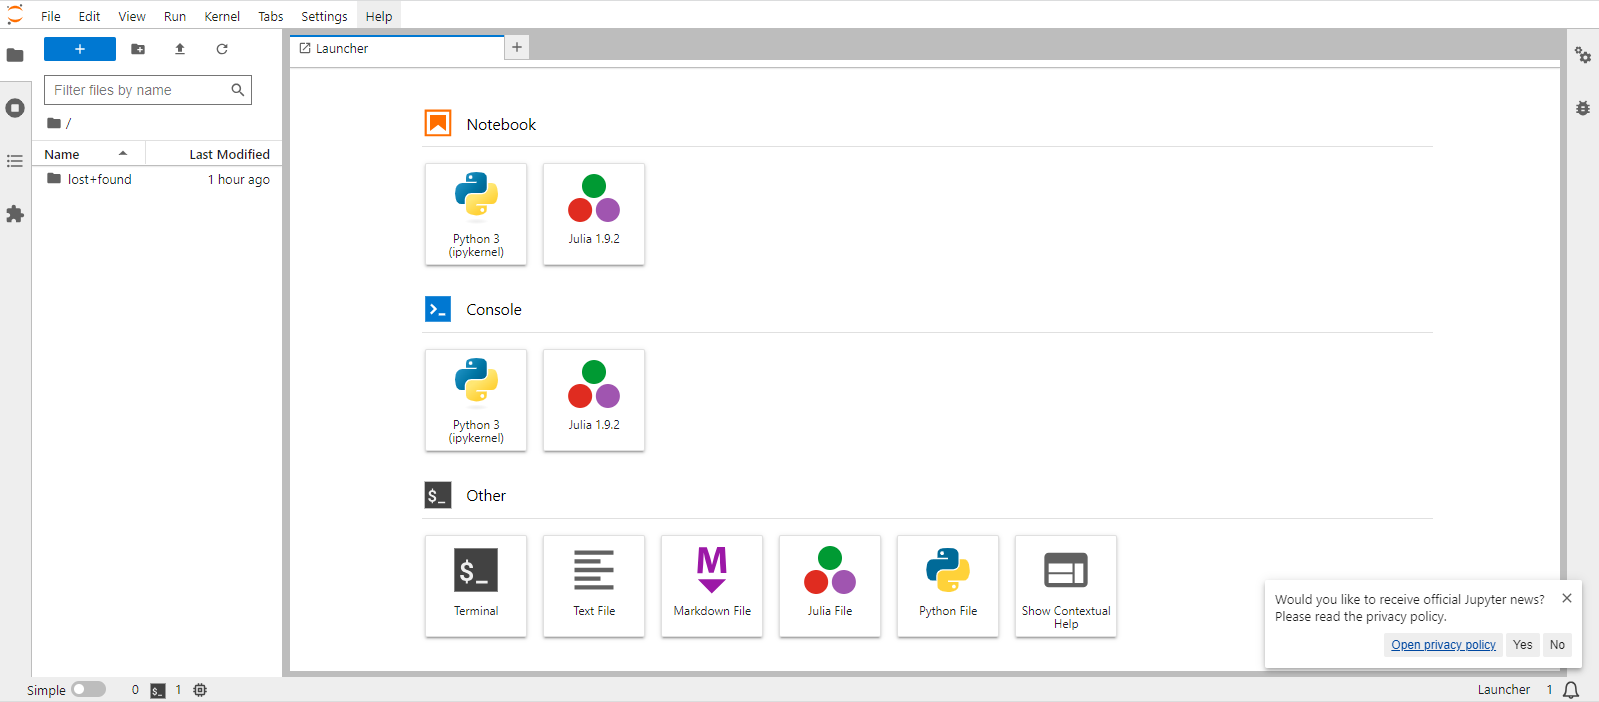
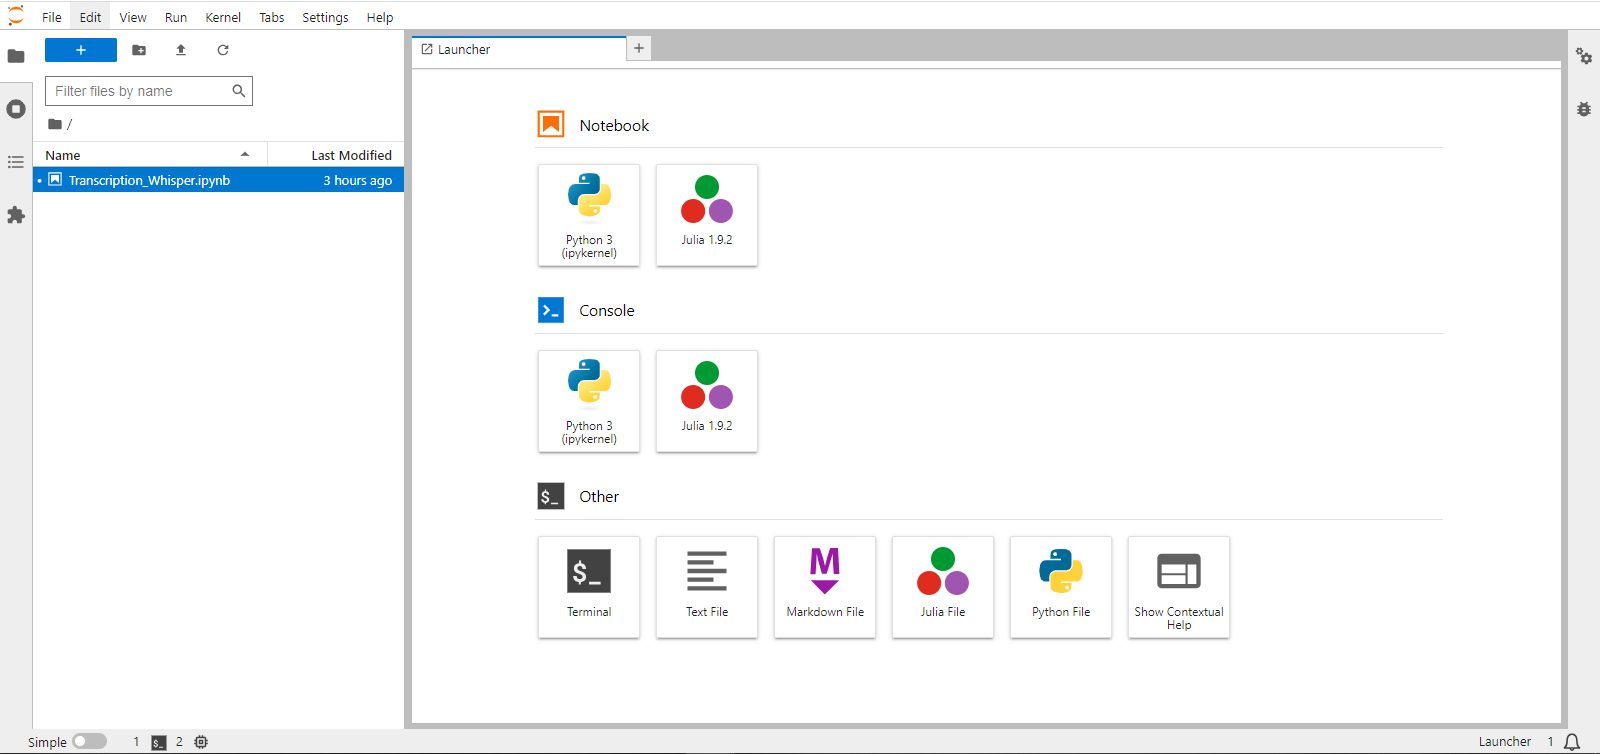
maj README en lien avec Transcription_Whisper.ipynb

Changed region(s): [[0.0, 0.0, 1.0, 1.0], [0.9806, 0.1197, 1.0, 0.1795]]

diff --git a/README.md b/README.md
@@ -4,25 +4,27 @@
 
 Ce tutoriel cherche à proposer une **solution simple et rapide aux personnes souhaitant retranscrire des enregistrements audio grâce au module [Whisper](https://github.com/openai/whisper) de [OpenAI](https://openai.com/) qui ne nécessite ni l'installation de logiciel, ni de disposer d'un ordinateur puissant, ni une bonne connaissance de Python et Bash**. Il ne présente pas toutes les potentialités de Whisper. Les informations complètes sur toutes ces fonctionnalités sont disponibles sur le dépôt [Github d'OpenAi](https://github.com/openai/whisper/blob/main/README.md). Par ailleurs, **la retranscription automatisée d'entretiens sociologiques avec WhisperOpenAI soulève un certain nombre de questions très bien évoquées par Yacine Ichtour dans [ce tutoriel](https://www.css.cnrs.fr/whisper-pour-retranscrire-des-entretiens/) dont je recommande vivement la lecture.**
 
-L'utilisation de Whisper en local pour la transcription de fichiers audio aussi longs que des entretiens sociologiques nécessite de disposer d'un ordinateur puissant (c'est-à-dire avec un CPU rapide voir un GPU, ce dont la plus part des étudiant.e.s ne disposent pas) pour pouvoir utiliser le modèle de transcription le plus précis (et donc le plus lent !) sans y passer deux jours. C'est pourquoi il peut être nécessaire d'utiliser un service de calcul en ligne dont l'accès n'est pas toujours libre comme dans le cas d'[HumaNum](https://documentation.huma-num.fr/calcul-scientifique/) ou qui posent de sérieux problèmes en matière de récolte des données personnelles comme dans le cas de [Google Colab](https://colab.research.google.com/drive/1srjHp_YjsXr92fNBsYIm3plG9sUoVKy7?usp=sharing). La solution proposée ici s'appuie sur l'application web [Onyxia](https://github.com/InseeFrLab/onyxia-web/blob/main/README.md) développé le Service Statistique Public qui associe plusieurs technologies open source pour fournir un environnement de travail aux statisticiens : le SSP Cloud.
+L'utilisation de Whisper en local pour la transcription de fichiers audio aussi longs que des entretiens sociologiques nécessite de disposer d'un ordinateur puissant (c'est-à-dire avec un CPU rapide voir un GPU, ce dont la plus part des étudiant.e.s ne disposent pas) pour pouvoir utiliser le modèle de transcription le plus précis (et donc le plus lent !) sans y passer deux jours. C'est pourquoi il peut être nécessaire d'utiliser un service de calcul en ligne dont l'accès n'est pas toujours libre comme dans le cas d'[HumaNum](https://documentation.huma-num.fr/calcul-scientifique/) ou qui posent de sérieux problèmes en matière de récolte des données personnelles comme dans le cas de [Google Colab](https://colab.research.google.com/drive/1srjHp_YjsXr92fNBsYIm3plG9sUoVKy7?usp=sharing). La solution proposée ici s'appuie sur l'application web [Onyxia](https://github.com/InseeFrLab/onyxia-web/blob/main/README.md) développé le Service Statistique Public qui associe plusieurs technologies open source pour fournir un environnement de travail aux statisticiens : le [SSP Cloud](https://github.com/InseeFrLab/onyxia-web/blob/main/README.md).
 
-## Le SSP Cloud, c'est quoi ? 
+## Le SSP Cloud, c'est quoi ?
 
 ### Une grosse puissance de calcul en accès (presque) libre
 
-Le datalab, service de calcul en ligne du [SSP Cloud](https://github.com/InseeFrLab/onyxia-web/blob/main/README.md), développé par l'INSEE et la Direction Interministérielle du Numérique (DINUM) qui permet l'émulation en ligne d'applications comme Rstudio, Jupyter et Vscode et met à disposition des ressources (CPU, GPU et RAM) permettant ainsi d'accélérer grandement la vitesse de calcul[^readme-1]. En d'autre termes, l'utilisation du datalab du SSP Cloud permet de retranscrire des entretiens rapidement et précisément tout en continuant d'utiliser son ordinateur normalement pendant que cette tache s'effectue (puisque les ressources locales ne sont pas utilisées). Ainsi, avec le modèle de transcription le plus lourd et précis, la durée de transcription est proche de celle de l'enregistrement (par exemple 2h d'entretien seront transcrites en 2h par Whisper), on a donc des performances similaires à celles observées avec Google Collab.
+[Le datalab](https://datalab.sspcloud.fr/), service de calcul en ligne du SSP Cloud, développé par l'INSEE et la Direction Interministérielle du Numérique (DINUM) qui permet l'émulation en ligne d'applications comme Rstudio, Jupyter et Vscode et met à disposition des ressources (CPU, GPU et RAM) permettant ainsi d'accélérer grandement la vitesse de calcul[^readme-1]. En d'autre termes, l'utilisation du datalab du SSP Cloud permet de retranscrire des entretiens rapidement et précisément tout en continuant d'utiliser son ordinateur normalement pendant que cette tache s'effectue (puisque les ressources locales ne sont pas utilisées). Ainsi, avec le modèle de transcription le plus lourd et précis, la durée de transcription est proche de celle de l'enregistrement (par exemple 2h d'entretien seront transcrites en 2h par Whisper), on a donc des performances similaires à celles observées avec Google Collab.
 
-[^readme-1]: L'émulation sur le datalab permet ainsi une utilisation de Rstudio qui ne nécessite pas d'installation de logiciels (ni R ni Rstudio), reste à jour, dont la puissance de calcul en général meilleure que celle des ordinateurs personnels. Elle permet aussi la pré-configuration et le partage de ces services, ce qui peut être particulièrement utile dans un cadre de travail collectif ou pour l'enseignement des méthodes quantitatives. A ce titre, l'utilisation des services du SSP Cloud pourrait intéresser bon nombre d'étudiant.e.s, d'enseigant.e.s et de chercheur.euse.s. Il est cependant conseillé de maîtriser les bases de l'utilisation de [Git](https://git-scm.com/).
+[^readme-1]: L'émulation sur le datalab permet ainsi une utilisation de Rstudio qui ne nécessite pas d'installation de logiciels (ni R ni Rstudio), reste à jour, dont la puissance de calcul en général meilleure que celle des ordinateurs personnels. Elle permet aussi la pré-configuration et le partage de ces services, ce qui peut être particulièrement utile dans un cadre de travail collectif ou pour l'enseignement des méthodes quantitatives. A ce titre, l'utilisation des services du SSP Cloud pourrait intéresser bon nombre d'étudiant.e.s, d'enseignant.e.s et de chercheur.euse.s. Il est cependant conseillé de maîtriser les bases de l'utilisation de [Git](https://git-scm.com/). Pour en savoir plus, [consulter la documentation](https://docs.sspcloud.fr/).
 
-L'utilisation du datalab du SSP Cloud est gratuite, cependant elle nécessite la création d'un compte. A l'origine destiné aux statisticiens des services de l'Etat, le SSP Cloud est cependant ouvert à la majorité des étudiant.e.s, enseignant.e.s et chercheur.euse.s via leur adresse mail institutionnelle[^readme-2].
+L'utilisation du datalab du SSP Cloud est gratuite mais elle nécessite la création d'un compte. A l'origine destiné aux statisticiens des services de l'Etat, le SSP Cloud est cependant ouvert à la majorité des étudiant.e.s, enseignant.e.s et chercheur.euse.s via leur adresse mail institutionnelle[^readme-2].
 
 [^readme-2]: liste des domaines autorisés : *insee.fr, gouv.fr, mnhn.fr, polytechnique.edu, ensae.fr, groupe-genes.fr, ensai.fr, sncf.fr, imf.org, veltys.com, unedic.fr, ined.fr, centralesupelec.fr, student-cs.fr, student.ecp.fr, supelec.fr, ign.fr, has-sante.fr, casd.eu, datastorm.fr, framatome.com, ars.sante.fr, ansm.sante.fr, cnaf.fr, ac-lille.fr, ac-amiens.fr, ac-normandie.fr, ac-reims.fr, ac-nancy-metz.fr, ac-strasbourg.fr, ac-creteil.fr, ac-paris.fr, nantesmetropole.fr, ac-versailles.fr, ac-rennes.fr, ac-nantes.fr, ac-orleans-tours.fr, ac-dijon.fr, ac-besancon.fr, ac-poitiers.fr, ac-limoges.fr, ac-clermont.fr, ac-lyon.fr, ac-grenoble.fr, ac-bordeaux.fr, ac-toulouse.fr, ac-montpellier.fr, ac-aix-marseille.fr, ac-nice.fr, ac-corse.fr, ac-martinique.fr, ac-guadeloupe.fr, ac-reunion.fr, ac-guyane.fr, ac-mayotte.fr, ac-wf.wf, monvr.pf, anfr.fr, ccomptes.fr, ac-noumea.nc, ac-spm.fr, inrae.fr, inria.fr, irsn.fr, ird.fr, arcep.fr, assemblee-nationale.fr, hceres.fr, ext.ec.europa.eu, health-data-hub.fr, datactivist.coop, inpi.fr, telecom-paris.fr, ineris.fr, cerema.fr, cnrs.fr, univ-rouen.fr, univ-paris1.fr, etu.univ-paris1.fr, edu.univ-paris1.fr, ens-paris-saclay.fr, ens.fr, ens-lyon.fr, cereq.fr, univ-eiffel.fr, chu-toulouse.fr, atih.sante.fr, thinkr.fr, inserm.fr, i-carre.net, statcan.gc.ca, istat.it, scb.se, ine.pt, oecd.org, etu.unicaen.fr, etu.u-bordeaux.fr, cor-retraites.fr, octo.com, parisnanterre.fr, ssc-spc.gc.ca, ens.fr, enssat.fr, estaca.eu, epitech.digital, ensta-bretagne.org, epitech.eu, epita.fr, lepont-learning.com, student.42.fr, edu.devinci.fr, cy-tech.fr, campus-eni.fr, insa-cvl.fr, student.wat.edu.pl, etud.univ-ubs.fr, etu.uca.fr, etudiant.univ-rennes1.fr, eleve.isep.fr, irisa.fr, sciencespo.fr, insa-rennes.fr, edu.univ-paris13.fr, ull.edu.es, toulouse-metropole.fr, acoss.fr, huma-num.fr, outscale.com, ademe.fr, santepubliquefrance.fr, irit.fr, prestataire.finances.gouv.fr, ensea.ed.ci, insse.ro, thalesgroup.com, giskard.ai, nextmap.io, adullact.org, mithrilsecurity.io, ip-paris.fr, normandie.fr, u-paris.fr, elysee.fr, univ-cotedazur.fr, bceao.int, renater.fr, assurance-maladie.fr, cnes.fr, ecb.europa.eu, ecb.int, esiea.fr, institut-agro.fr, agrosupdijon.fr, ins.tn, mercator-ocean.fr, hcp.ma, pole-emploi.fr, making-sense.info, seenovate.com, quantstack.net, cartes-bancaires.com, paris.fr, agglo-pau.fr, ehesp.fr, statistics.gov.rw, ec.europa.eu, crtc.ccomptes.fr, vlaanderen.be, caissedesdepots.fr, banque-france.fr, economie.fgov.be, odeadom.fr, justice.fr, ensma.fr, in2p3.fr, adaltas.com, stat.fi, ssb.no, cbs.nl, ine.es, statistik.gv.at, cso.ie, epfl.ch, sdsc.ethz.ch, switch.ch, ensea.fr, cyu.fr, cbs.nl, unige.ch, vlaanderen.be, ons.gov.uk, sdsc.ethz.ch, ilo.org, uchicago.edu, ncsi.gov.om, un.org, oecd.org, ext.st, ine.pt)atec.etat.lu, gov.si, stat.ee, epfl.ch, ifrc.org, ine.es, ssb.no, gtu.ge, ine.pt, bfs.admin.ch, bis.org, destatis.de, bsp.gov.ph, pg.com, afd.fr, isere.fr, chambagri.fr, chu-reunion.fr, afristat.org, citeos.com, agglo-larochelle.fr, insd.bf, stat.gov.pl, stats.govt.nz, nbb.be, statec.etat.lu*
 
-### Une très bonne (mais pas parfaite) protection des données
+### Une très bonne protection des données (mais sans garantie !)
 
-Si Google Colab pose d'évidents problèmes de RGPD, l'utilisation du datalab n'est pas non plus exempt de limites en matière de protection des données. En particulier, le SSP Cloud dit ne pas pouvoir garantir la confidentialité des données stockées dans le coffre fort AWS (onglet "mes fichiers"). Il reste donc déconseillé de charger des enregistrements audio d'entretiens sociologiques sur celui-ci.
+Si Google Colab pose d'évidents problèmes de RGPD, l'utilisation du datalab n'est pas non plus exempt de limites en matière de protection des données. En particulier, bien que les technologies de protection utilisées soient de qualité, le SSP Cloud ne prèfère pas garantir la confidentialité des données stockées dans le coffre fort AWS (onglet "mes fichiers"). Vous prenez donc un risque (limité, mais existant) si vous chargez des enregistrements audio d'entretiens sociologiques sur celui-ci.
 
-Pour autant, avec la méthode proposée ici, l'enregistrement audio et sa transcription sous la forme de texte ne sont pas chargés dans le système de stockage du SSP Cloud mais seulement de manière confidentielle dans la mémoire temporaire d'un service dont la suppression est possible après chaque utilisation et est automatique après 24h, ils y sont donc en sécurité. Cependant, **en cas d'informations très sensibles contenues dans vos enregistrements, et au vu des problèmes de confidentialité que posent de toute façon l'utilisation d'OpenAI, aucune solution ne pourra remplacer une retranscription à la main.**
+Pour autant, avec la méthode de transcription proposée ici, l'enregistrement audio et sa retranscription sous la forme de texte ne sont pas chargés dans le système de stockage du SSP Cloud mais seulement de manière confidentielle dans la mémoire temporaire d'un service dont la suppression est possible après chaque utilisation et est automatique après 24h, ils y sont donc en sécurité.
+
+Cependant, **en cas d'informations très sensibles contenues dans vos enregistrements, et au vu des problèmes de confidentialité que posent de toute façon l'utilisation d'OpenAI, aucune solution ne pourra remplacer une retranscription à la main.**
 
 # Tutoriel
 
@@ -30,13 +32,13 @@ Pour autant, avec la méthode proposée ici, l'enregistrement audio et sa transc
 
 Si vous n'en avez pas, vous devez [créer un compte](https://auth.lab.sspcloud.fr/auth/realms/sspcloud/login-actions/registration?client_id=onyxia&tab_id=VHXwOvcjkjQ).
 
-## Etape 1 : Lancer Python préconfiguré pour Whisper
+## Etape 1 : Lancer Python pré-configuré pour Whisper
 
 Dans l'environnement de travail du SSP Cloud, il est possible de lancer Python directement via l'onglet "Catalogue de services" en choisissant jupyter-python-gpu puis en réalisant "à la main" la configuration du service et enfin en installant Whisper et ses dépendances.
 
-Vous pouvez plus simplement lancer python en suivant ce lien : [lancer python préconfiguré pour Whisper](https://datalab.sspcloud.fr/launcher/ide/jupyter-python-gpu?autoLaunch=true&onyxia.friendlyName=«Transcription%20Whisper»&resources.limits.cpu=«40000m»&resources.limits.nvidia.com/gpu=«4»&resources.limits.memory=«198Gi»&init.personalInit=«https%3A%2F%2Fraw.githubusercontent.com%2Fanoukmartin%2FTranscription-Whisper-x-SSP-Cloud%2Fmain%2FInitPy.sh»). Dans ce cas, un nouveau service nommé ![](images/Capture3.PNG){width="158"} apparaît dans l'onglet ![](images/Capture2.PNG){width="120" height="30"} de votre compte SSP Cloud. Ce service est pré-configuré pour que l'utilisation de Whisper y soit facile[^readme-3].
+Vous pouvez plus simplement lancer python en suivant ce lien : [l**ancer python pré-configuré pour Whisper**](https://datalab.sspcloud.fr/launcher/ide/jupyter-python-gpu?autoLaunch=true&onyxia.friendlyName=«Transcription%20Whisper»&resources.limits.cpu=«40000m»&resources.limits.nvidia.com/gpu=«4»&resources.limits.memory=«198Gi»&init.personalInit=«https%3A%2F%2Fraw.githubusercontent.com%2Fanoukmartin%2FTranscription-Whisper-x-SSP-Cloud%2Fmain%2FInitPy.sh»). Dans ce cas, un nouveau service nommé ![](images/Capture3.PNG){width="158"} apparaît dans l'onglet ![](images/Capture2.PNG){width="120" height="30"} de votre compte SSP Cloud. Ce service est pré-configuré pour que l'utilisation de Whisper y soit facile[^readme-3].
 
-[^readme-3]: Ce service est préconfiguré de sorte à obtenir l'assistance d'un GPU et à disposer du maximum de ressources possible en CPU et mémoire vive en cas de besoin. L'installation de whisper et de ffmpeg se fait automatiquement lors du lancement du service. Les informations précises sur ces réglages sont disponibles en cliquant sur ![](images/Capture4.PNG) une fois que le service est prêt.
+[^readme-3]: Ce service est pré-configuré de sorte à obtenir l'assistance d'un GPU et à disposer du maximum de ressources possible en CPU et mémoire vive en cas de besoin. L'installation de whisper et de ffmpeg se fait automatiquement lors du lancement du service. Un notebook Jupyter avec le code python nécessaire pour réaliser la transcription est également copié. Les informations précises sur ces réglages sont disponibles en cliquant sur ![](images/Capture4.PNG) une fois que le service est prêt.
 
 Une fois que ce service est prêt (cela peut prendre un peu de temps car le chargement de Whisper est long) pour l'ouvrir, cliquer sur le bouton ![](images/Capture5.PNG){width="67"}. Une boite de dialogue s'ouvre. Cliquer sur ![](images/Capture6.PNG){width="231"} puis sur ![](images/Capture7.PNG){width="242"}. Une page s'ouvre. Coller le mot de passe dans le champ destiné pour se connecter ![](images/Capture8.PNG){width="234"} .
 
@@ -46,32 +48,44 @@ Une fois le service lancé, l'interface Jupyter s'ouvre :
 
 ![](images/Capture10.PNG)
 
-### 1. Charger votre fichier audio
+Dans la partie gauche de l'écran, ouvrir le fichier intitulé `Transcription_whisper.ipynb`. Un notebook s'ouvre alors :
 
-En utilisant le bouton ![](images/Capture11.PNG){width="36"}, charger le(s) fichier(s) audio à retranscrire. Celui doit être au format .mp3 ou .wav. Si votre fichier est volumineux ou que vous souhaiter en charger plusieurs, il est préférable de disposer d'une bonne connexion à internet.
+![](images/Capture10b.PNG)
 
-### 2. Ouvrez un Notebook Python
+Suivre ainsi les instructions indiquées sur le document.
 
-Dans la partie droite de l'écran, cliquer sur le bouton ![](images/Capture12.PNG){width="29" height="30"} de l'onglet Notebook. Un Notebook s'ouvre alors :
+::: {.exemple style="background: #EFEFEF; padding: 30px; border-radius: 50px;"}
+### Un exemple avec ["AH LALA" de Meryl](https://www.youtube.com/watch?v=XfIefINb84U&ab_channel=FIYAHRECORDS).
+
+#### 1. Charger le(s) fichier(s) audio à retranscrire
+
+Charger le ou les fichier(s) audio à retranscrire en utilisant le bouton ![](images/Capture11.PNG){width="36"}. Le(s) fichier(s) doi(ven)t être au format .mp3 ou .wav. Si votre fichier est volumineux ou que vous souhaiter en charger plusieurs, il est préférable de disposer d'une bonne connexion à internet. Il(s) devrai(en)t apparaître dans la liste de la partie gauche de l'écran.
 
 ![](images/Capture13.PNG)
 
-### 3. Demander à Whisper de retranscrire l'audio
+### 2. Demander à Whisper de retranscrire un audio
 
-Dans le Notebook écrire la ligne de code suivante, en remplaçant "mon_enregistement_audio" par son nom.
+Exécuter la ligne de code ci-dessous en changeant au besoin ces paramètres (pour connaître les autres options disponibles, consulter le [dépôt Github d'OpenAI](https://github.com/openai/whisper/tree/main)) :
+
+-   `"mon_enregistrement_audio.mp3"` indique le nom du fichier audio. A adapter en fonction du nom de votre fichier.
+-   `--model large-v2` signifie que l'on souhaite utiliser le modèle le plus lourd et précis.
+-   `--language French` signifie que l'entretien est en français.
 
 ``` python
-!whisper "mon_enregistement_audio" --model large-v2 --language French
+!whisper "mon_enregistrement_audio.mp3" --model large-v2 --language French
 ```
 
-Un exemple avec l'enregistrement audio de la chanson de [Meryl, "*AH LALA*"](https://www.youtube.com/watch?v=XfIefINb84U&ab_channel=FIYAHRECORDS)*:*
-
-![](images/Capture14%20(2).PNG)
-
-Puis exécuter cette ligne de code grâce au bouton ![](images/Capture15.PNG). Le chargement du modèle commence. Une fois effectué, la transcription de l'audio démarre. Lorsque celle-ci est finie, plusieurs fichiers apparaissent dans la partie gauche de l'écran. Ils portent tous le nom de votre audio et sont de formats différents. Le fichier de format texte (.txt) contient la transcription de l'enregistrement.
+Cliquer sur le petit bouton ![](images/Capture15.PNG). Le chargement du modèle va alors commencer, cela peut prendre un certain temps. Une fois terminé la transcription va démarrer :
 
 ![](images/Capture17.PNG)
 
-### 4. Télécharger la transcription du fichier audio et supprimer le service
+#### 3. Télécharger la transcription de votre fichier audio 
 
-Cet enrvironement de travail sera automatiquement supprimé après 24h, il est conseillé de télécharger rapidement la transcription de l'audio. Pour télécharger le fichier texte : clic droit sur celui-ci \> download. Vous pouvez alors répéter ces opérations pour transcrire d'autres fichiers audio. Une fois les retranscriptions terminées, il reste conseillé de supprimer le service.
+Lorsque celle-ci est finie, plusieurs fichiers apparaissent dans la partie gauche de l'écran. Ils portent tous le nom de votre audio et sont de formats différents. Le fichier de format texte (.txt) contient la transcription de l'enregistrement. Pour le télécharger : clic droit sur celui-ci \> download
+
+![](images/Capture18.png)
+
+#### 4. Recommencer le point 2. et 3. si vous avez plusieurs fichiers audio à retranscrire
+
+Vous pouvez alors répéter ces opérations pour transcrire d'autres fichiers audio. Une fois les retranscriptions terminées, il reste conseillé de supprimer le service.
+:::
